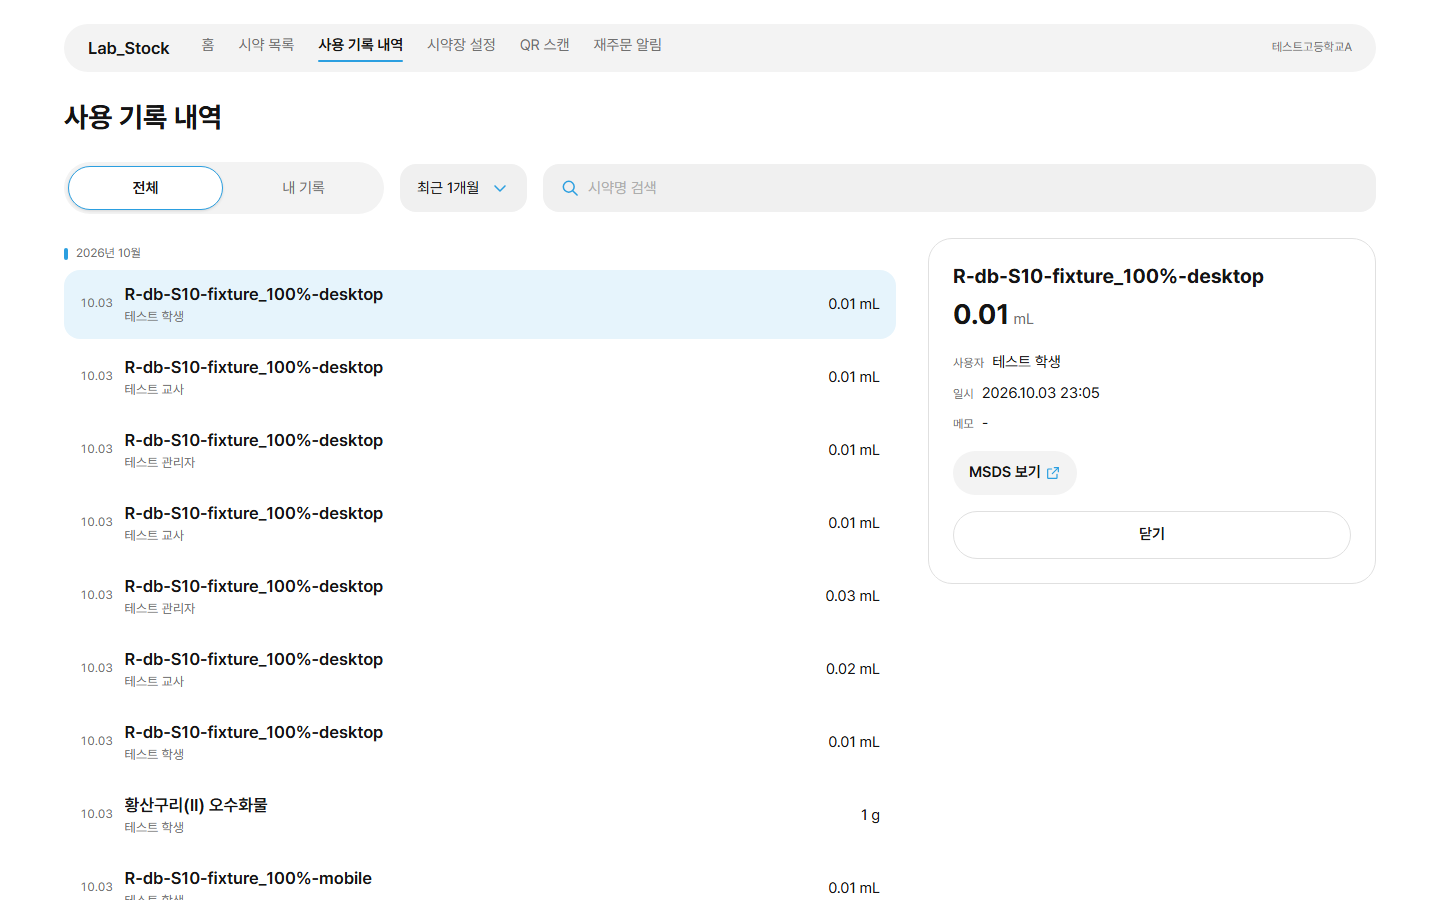
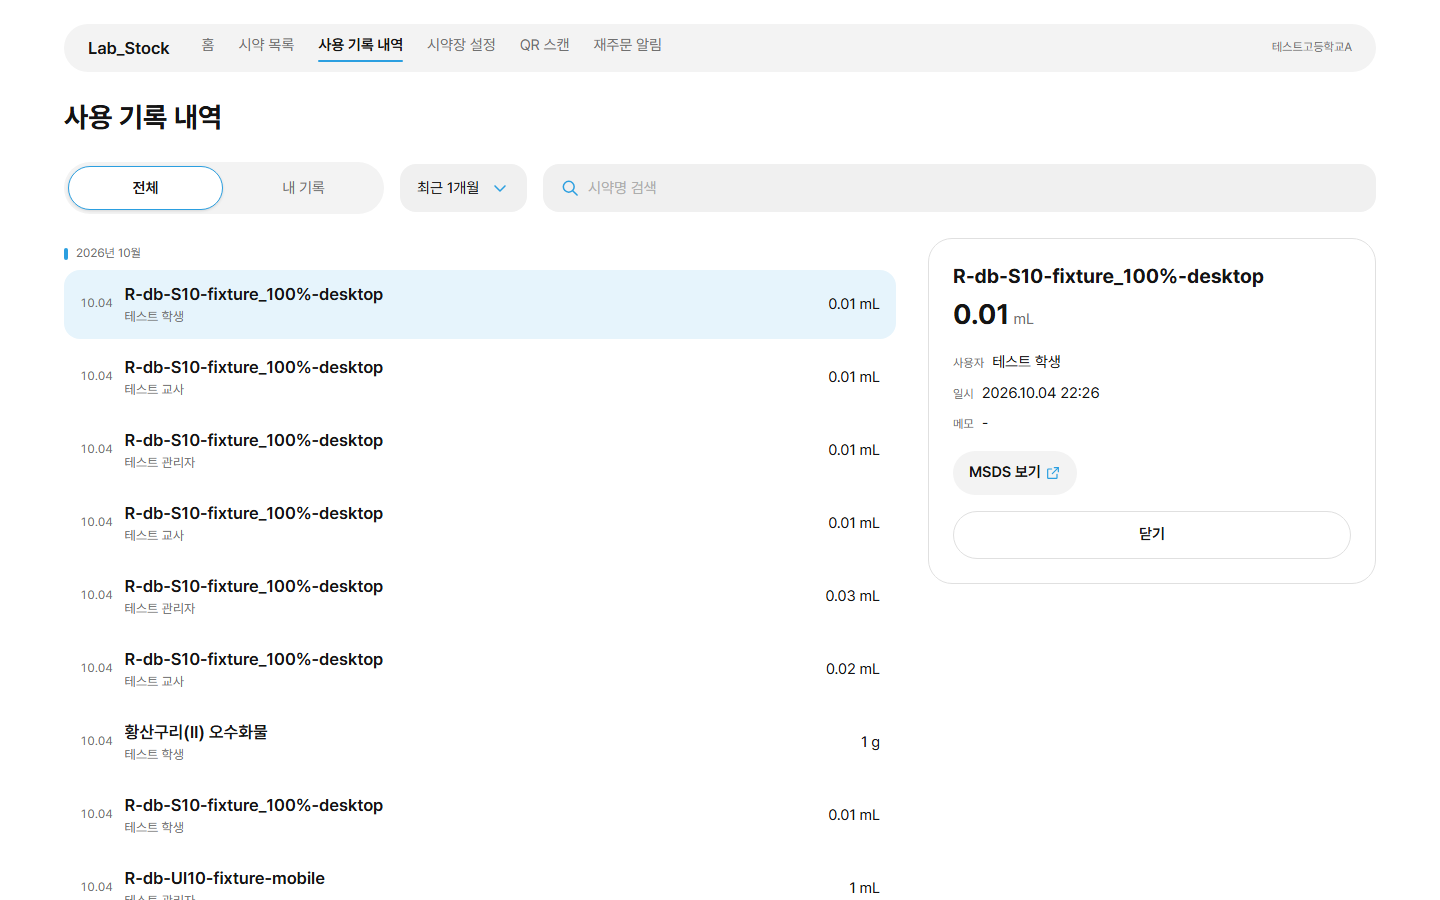
run 20261003-1936: G 승인, D4 통과

diff --git a/runs/20261003-1936/approval.md b/runs/20261003-1936/approval.md
@@ -18,7 +18,7 @@
 - 한 번에 최근 200건까지만 보여 주고, 넘으면 "기간을 줄이거나 시약명으로 검색" 안내
 - 데스크탑 nav 는 기존 공통 링크 그대로(시안의 사용자 관리·판매처 설정 링크는 아직 없는 화면)
 
-result:
-reason:
-approver:
-date:
+result: approved
+reason: 미리보기 확인 후 사용자 승인
+approver: scieum (사용자)
+date: 2026-10-04
